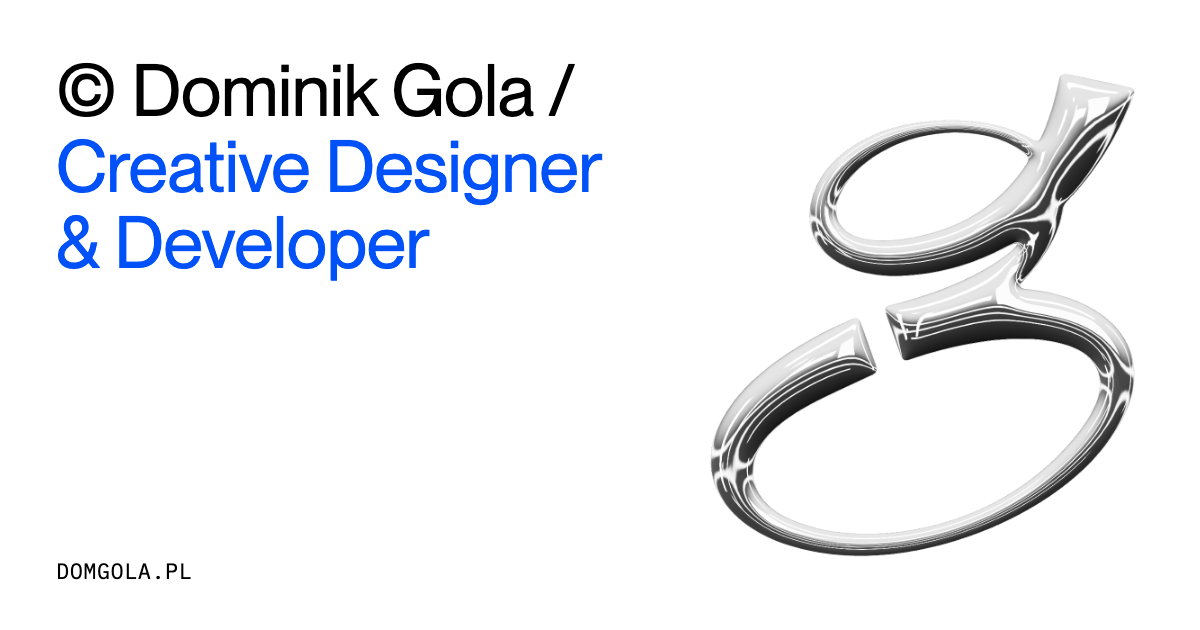
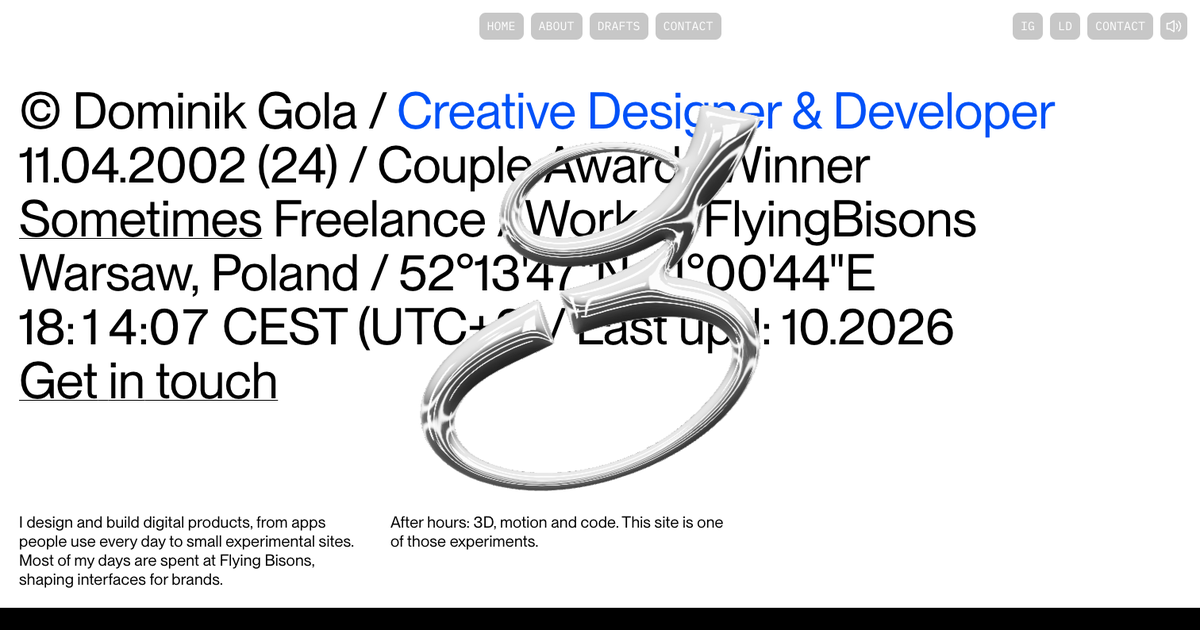
Share image: the real hero with a bigger G

diff --git a/CLAUDE.md b/CLAUDE.md
@@ -25,7 +25,7 @@ He judges by eye and by how motion *feels*: after any visual change, look at it 
   - `src/sfx.js` — the synthesized sounds, all through that context (nothing plays before the first click/key: browser rule): `tick()` (Drafts ring detents; Home "6+ years" records on mouse hover — he wanted exactly the Drafts click there, not the blip; it used to tick on scroll), `hover()` (very soft glassy blip on `.pill`, `.works__more`, `.footer__cta`, `.dr__arrow`, `[data-sfx-hover]`; mouse only, delegated in `initNav`), `knock(pan, level, pitch)` (outro logo hitting an edge: soft chrome "tok", base volume .07 — he asked for it quieter, panned to the side it hit, volume = (uncovered share of the outro)², so it's only really audible once the outro is in view).
 - **Cursor** — `src/cursor.js` (started in `initNav`, so every page): the system arrow stays, an 8 px dot trails just above the arrow tip, a little to the left (−5/−9 px, trails with a soft lag: `FOLLOW` 9/s — 28 felt glued to the mouse), solid white with `mix-blend-mode: difference` only → black on white, white on black (a backdrop-blur disc was tried and removed on request). Grows ×2.3 over clickable things (links, buttons, inputs, anything with `cursor: pointer`), shrinks a bit on press. Mouse/fine-pointer devices only. Styles at the end of `base.css`.
 - **Favicon** — chrome G (rendered from the live `CURRENT_LOOK`) on the site blue #0051f8, rounded square: `public/favicon.ico` (16/32/48), `favicon.png` (64), `icon-512.png`, `apple-touch-icon.png` (180, full bleed — iOS rounds it). Links are injected into every page's `<head>` by the `shared-nav` plugin.
-- **Link previews** — `public/og.png` (1200 × 630: "© Dominik Gola / Creative Designer & Developer" in Neue Montreal with the blue role, the chrome G on the right, "domgola.pl" in Plex Mono, white). Open Graph + Twitter tags (title from each page's `<title>`, description per page in `SHARE`, absolute URLs on https://domgola.pl) are injected by the `shared-nav` plugin (`shareTags` in vite.config.js).
+- **Link previews** — `public/og.png` (1200 × 630) = a capture of the real Home hero (1512 × 794, reduced motion so the G faces front) with the chrome G scaled ×1.45, downscaled; he wanted the actual hero, just a bigger logo. Open Graph + Twitter tags (title from each page's `<title>`, description per page in `SHARE`, absolute URLs on https://domgola.pl) are injected by the `shared-nav` plugin (`shareTags` in vite.config.js).
 - **Fonts** — `src/styles/fonts.css`: PP Neue Montreal (all supplied weights, woff2 converted from Dominik's TTFs; Book = 350), IBM Plex Sans Arabic (supplied), IBM Plex Mono via `@fontsource`. Tokens `--font-display`, `--font-mono`, `--font-plex` in `src/styles/base.css`.
 - **Smooth scroll** — Lenis (`src/smooth-scroll.js`, `lerp 0.09`), on Home and About. It drives native scroll, so `scrollY`/`scroll` listeners keep working. `window.__lenis` for tests. Not on Drafts (no document scroll).
 - **Page transitions** — one dark blind ("roleta"), identical on every page (he rejected per-page view-transition variants as inconsistent). `src/curtain.js`: a click on an internal link rolls `.curtain` up from the bottom (750 ms), sets `sessionStorage['dg:curtain']` and navigates; `src/curtain-head.js` (inlined into `<head>` by the plugin) covers the new page from the first paint; the page calls `pageReady(promise)` (Home: fonts, About: 3D scene up, Drafts: images or 1.5 s; max 3.5 s) and the blind keeps rolling up and off the top (900 ms, `cubic-bezier(.76,0,.24,1)`). Drafts starts its intro camera move as the blind lifts (`revealed`). Same-page links just glide (Lenis). No cross-document View Transitions anymore. Speculation-rules prefetch on hover keeps the covered moment short.
